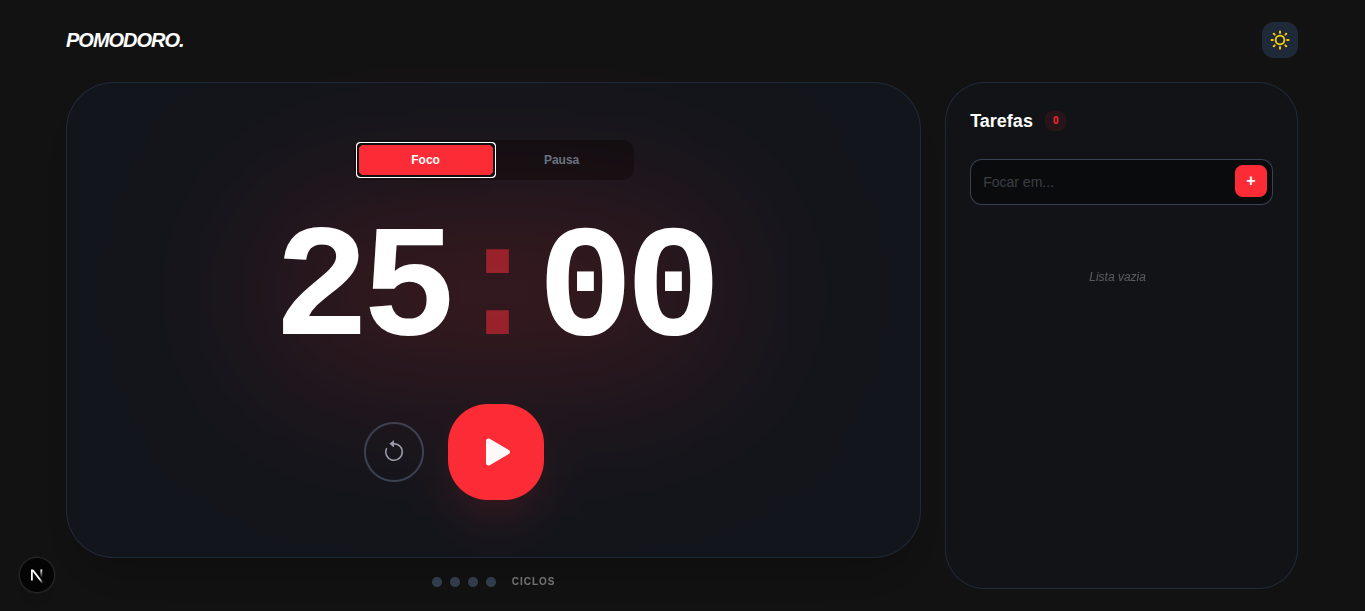
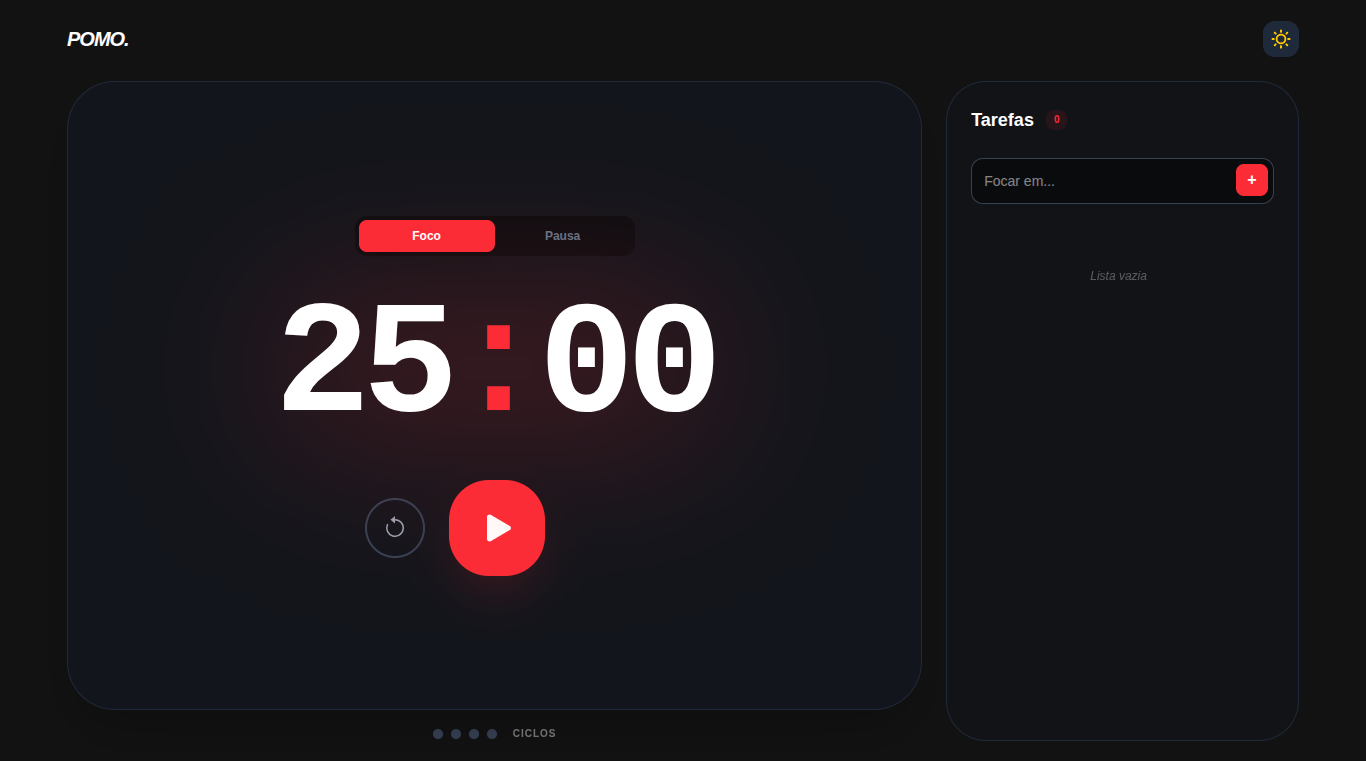
feat: adicionado imagem do projeto Pomodoro e configurado qualidades de imagens no next.config.ts

diff --git a/next.config.ts b/next.config.ts
@@ -4,4 +4,7 @@ const nextConfig = {
       root: '/home/evang/Projetos/portfolio',
     },
   },
+  images: {
+    qualities: [75, 90, 100],
+  }
 };
